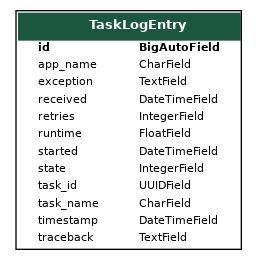
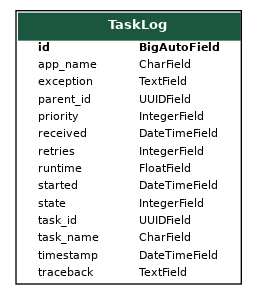
Show dates on report instead duration

Changed region(s): [[0.0623, 0.0308, 0.9339, 0.9846]]

diff --git a/taskanalytics/templates/admin/taskanalytics/tasklog/reports.html b/taskanalytics/templates/admin/taskanalytics/tasklog/reports.html
@@ -16,7 +16,7 @@
 
 {% block content %}
 
-    <p>Total of {{ total_runs|intcomma }} task executions within {{ oldest_date|timesince:youngest_date }} and {{ total_runtime_date|timesince }} cumulative runtime.</p>
+    <p>Total of {{ total_runs|intcomma }} task executions starting {{ oldest_date|naturaltime }} until {{ youngest_date|naturaltime }} with a cumulative runtime of {{ total_runtime_date|timesince }}.</p>
 
     <h2 id="contents">Conents</h2>
     <ul>

diff --git a/taskanalytics/app_settings.py b/taskanalytics/app_settings.py
@@ -1,7 +1,7 @@
 from app_utils.django import clean_setting
 
 TASKANALYTICS_DATA_MAX_AGE = clean_setting("TASKANALYTICS_DATA_MAX_AGE", 24)
-"""Max age of logs in hours. Older logs be deleted automatically."""
+"""Max age of logged tasks in hours. Older logs be deleted automatically."""
 
 TASKANALYTICS_HOUSEKEEPING_FREQUENCY = clean_setting(
     "TASKANALYTICS_HOUSEKEEPING_FREQUENCY", 15
@@ -9,7 +9,7 @@ TASKANALYTICS_HOUSEKEEPING_FREQUENCY = clean_setting(
 """Frequency of house keeping runs in minutes."""
 
 TASKANALYTICS_REPORTS_MAX_AGE = clean_setting("TASKANALYTICS_REPORTS_MAX_AGE", 15)
-"""Max age of reports in minutes."""
+"""Max age of cached reports in minutes."""
 
 TASKANALYTICS_REPORTS_MAX_TOP = clean_setting("TASKANALYTICS_REPORTS_MAX_TOP", 20)
 """Max items to show in the top reports. e.g. 10 will shop the top ten items."""

diff --git a/taskanalytics/managers.py b/taskanalytics/managers.py
@@ -22,11 +22,11 @@ class TaskLogQuerySet(models.QuerySet):
                     value = getattr(obj, f"get_{field.name}_display")()
                 else:
                     value = getattr(obj, field.name)
-                if callable(value):
-                    try:
-                        value = value() or ""
-                    except Exception:
-                        value = "Error retrieving value"
+                # if callable(value):
+                #     try:
+                #         value = value() or ""
+                #     except Exception:
+                #         value = "Error retrieving value"
                 if value is None:
                     value = ""
                 values.append(value)

diff --git a/taskanalytics/__init__.py b/taskanalytics/__init__.py
@@ -1,4 +1,4 @@
 default_app_config = "taskanalytics.apps.TaskAnalyticsConfig"
 
-__version__ = "0.1.0dev13"
+__version__ = "0.1.0a1"
 __title__ = "Task Analytics"

diff --git a/README.md b/README.md
@@ -1,3 +1,88 @@
 # Task Analytics
 
-WARNING: This app is currently in development. Do not use in production.
+An Alliance Auth app for monitoring celery tasks.
+
+[![release](https://img.shields.io/pypi/v/aa-analytics?label=release)](https://pypi.org/project/aa-analytics/)
+[![python](https://img.shields.io/pypi/pyversions/aa-analytics)](https://pypi.org/project/aa-analytics/)
+[![django](https://img.shields.io/pypi/djversions/aa-analytics?label=django)](https://pypi.org/project/aa-analytics/)
+[![pipeline](https://gitlab.com/ErikKalkoken/aa-analytics/badges/master/pipeline.svg)](https://gitlab.com/ErikKalkoken/aa-analytics/-/pipelines)
+[![codecov](https://codecov.io/gl/ErikKalkoken/aa-analytics/branch/master/graph/badge.svg?token=3tY1AOIp4B)](https://codecov.io/gl/ErikKalkoken/aa-analytics)
+[![license](https://img.shields.io/badge/license-MIT-green)](https://gitlab.com/ErikKalkoken/aa-analytics/-/blob/master/LICENSE)
+[![pre-commit](https://img.shields.io/badge/pre--commit-enabled-brightgreen?logo=pre-commit&logoColor=white)](https://github.com/pre-commit/pre-commit)
+[![Code style: black](https://img.shields.io/badge/code%20style-black-000000.svg)](https://github.com/psf/black)
+[![chat](https://img.shields.io/discord/790364535294132234)](https://discord.gg/zmh52wnfvM)
+
+## Contents
+
+- [Features](#features)
+- [Installation](#installation)
+- [User manual](#user-manual)
+- [Settings](#settings)
+- [FAQ](#faq)
+- [Change Log](CHANGELOG.md)
+
+## Features
+
+Task Analytics gives administrators additional insights into the celery tasks that run on their system.
+
+- Full log with details of all recently executed tasks including failed and retried tasks.
+- Reports highlighting common aspects, e.g. Top most failed tasks
+- Export task logs to CSV for further analysis with 3rd party tools (e.g. Google sheets)
+
+Note that all information incl. the reports is available exclusively through the admin site.
+
+## Installation
+
+### Step 1 - Check prerequisites
+
+Task Analytics is a plugin for Alliance Auth. If you don't have Alliance Auth running already, please install it first before proceeding. (see the official [AA installation guide](https://allianceauth.readthedocs.io/en/latest/installation/auth/allianceauth/) for details)
+
+### Step 2 - Install app
+
+Make sure you are in the virtual environment (venv) of your Alliance Auth installation. Then install the newest release from PyPI:
+
+```bash
+pip install git+https://gitlab.com/ErikKalkoken/task-analytics.git
+```
+
+### Step 3 - Configure Auth settings
+
+Configure your Auth settings (`local.py`) as follows:
+
+- Add `'taskanalytics'` to `INSTALLED_APPS`
+- Optional: Add additional settings if you want to change any defaults. See [Settings](#settings) for the full list.
+
+### Step 4 - Finalize App installation
+
+Run migrations & copy static files
+
+```bash
+python manage.py migrate
+python manage.py collectstatic --noinput
+```
+
+Restart your supervisor services for Auth.
+
+## Settings
+
+Here is a list of available settings for this app. They can be configured by adding them to your AA settings file (`local.py`).
+
+Note that all settings are optional and the app will use the documented default settings if they are not used.
+
+Name | Description | Default
+-- | -- | --
+`TASKANALYTICS_DATA_MAX_AGE`| Max age of logged tasks in hours. Older logs be deleted automatically. | `24`
+`TASKANALYTICS_HOUSEKEEPING_FREQUENCY`| Frequency of house keeping runs in minutes. | `15`
+`TASKANALYTICS_REPORTS_MAX_AGE`| Max age of cached reports in minutes. | `15`
+`TASKANALYTICS_REPORTS_MAX_TOP`| Max items to show in the top reports. e.g. 10 will shop the top ten items. | `15`
+
+## FAQ
+
+- Q: How is this app different from celery analytics?
+- A: Celery Analytics appears to be mainly designed as data source for reports on Grafana. So you also need to install and setup Grafana to make use of it. Task Analytics on the other hand aims to be fully functional standalone, e.g. it provides reports and many useful features for analyzing the raw data directly on the admin site.
+
+- Q: How is this app different from flower?
+- A: Flower offers more detailed and technical information about task runs and might be therefore more suitable for developers. However, it not designed to store a larger number of task logs (default is 10K) and is therefore less suited to monitor tasks with Alliance Auth, where you typically have many 100K tasks per day.
+
+- Q: Is it possible to store tasks longer then for 24 hours?
+- A: Yes, there is a setting, which you can increase according to your needs. However, please keep in mind that your storage needs will increase accordingly. The current approx. usage is 0.5 KB per entry, so e.g. you need 200MB for 400.000 entries. At some point you also might run into performance issues, e.g. long page load times. Nevertheless, we want this app to work with very large data sets. So if you run into any issues, please let us know.
